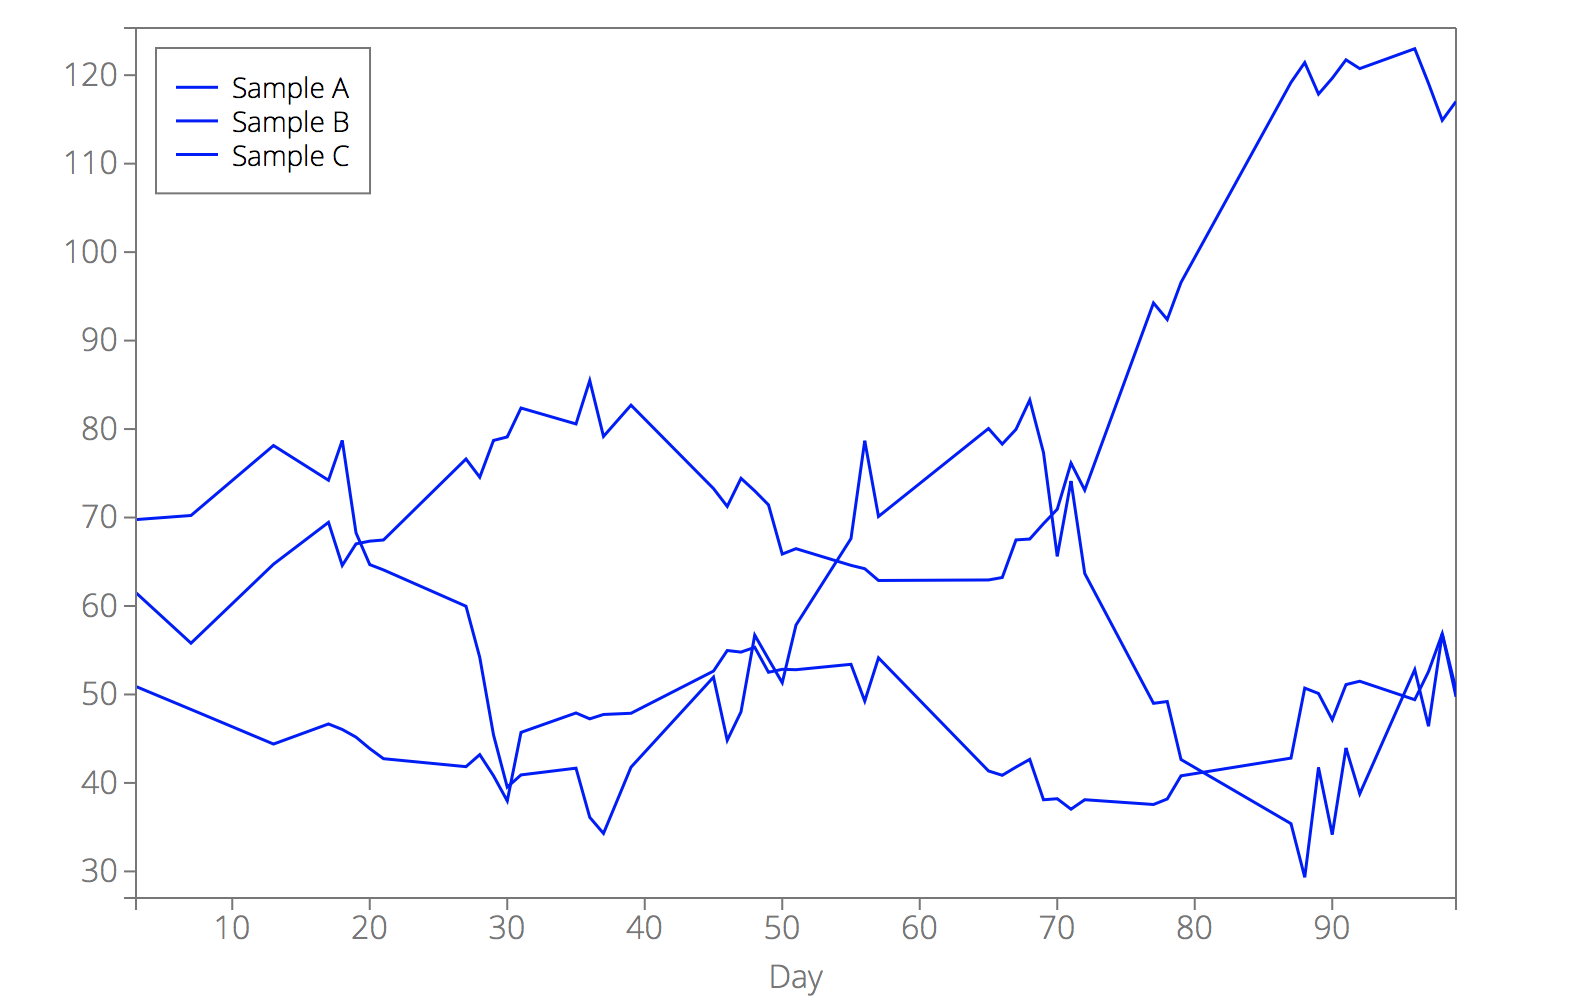
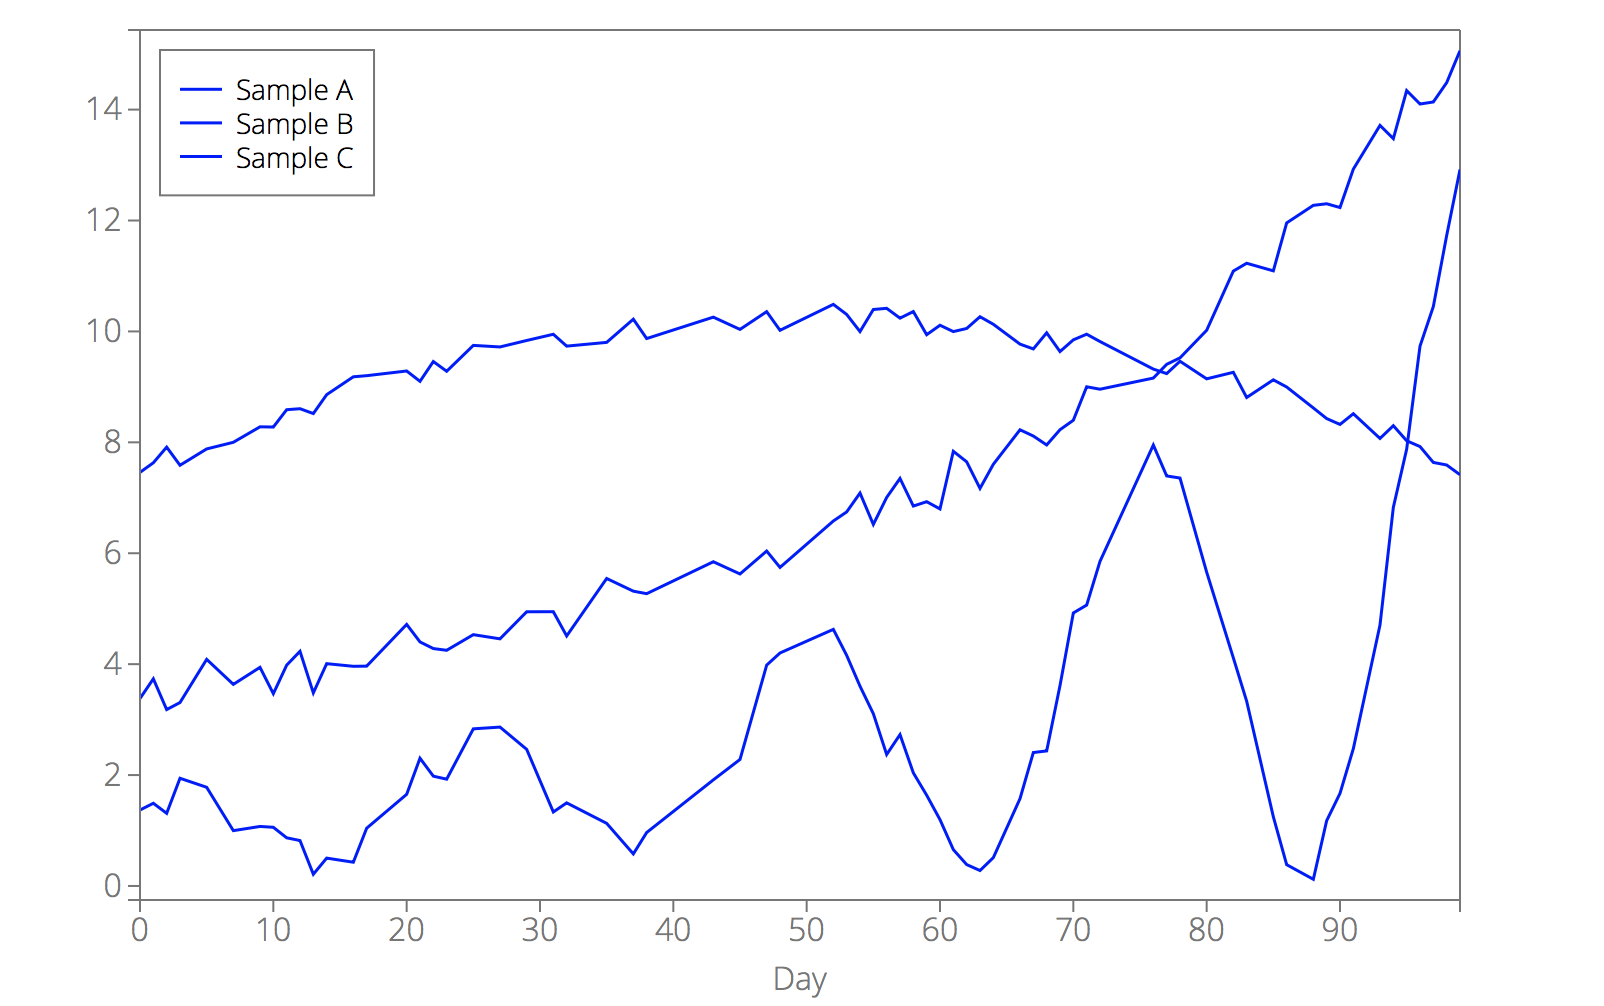
API

diff --git a/tests/test.html b/tests/test.html
@@ -65,8 +65,7 @@ var svg = d3.select("#main-svg");
 d3.csv("example2.csv", function(error, data) {
     var options = {
         data: data,
-        xkey: "Day",
-        line_color: ["steelblue", "#f77", "rgb(250, 120, 240)"],
+        xkey: "Day"
     };
     d3lines.plot(svg, options);
 });

diff --git a/API.md b/API.md
@@ -155,54 +155,76 @@ Suppose that you have the following `example2.csv`:
 
 ```
 Day,Sample A,Sample B,Sample C
-3,69.7665925945,50.8980167548,61.4978011553
-7,70.2307668378,48.3065756125,55.7963998342
-13,78.1404816526,44.3945781512,64.7251611208
-17,74.2128753514,46.6664839444,69.456580873
-18,78.7136091918,46.0431669673,64.5843281325
-19,68.2731934312,45.1773347638,67.0246086318
-20,64.6784765394,43.8829260824,67.3304829687
-21,64.078266354,42.7393393412,67.4614262131
-27,59.9736260654,41.8389801619,76.6184128588
-28,54.1963318973,43.1991975906,74.5551006676
-29,45.4346434254,40.8165035072,78.7135983798
-30,39.5235907855,37.9678408868,79.1089953112
-31,40.9070193725,45.7138889281,82.3784494751
-35,41.6691052989,47.9107825793,80.5789026314
-36,36.1142120885,47.2426926164,85.4838881572
-37,34.2928694345,47.7384269922,79.1678668036
-39,41.7805111834,47.8739136227,82.7028614384
-45,51.9588457713,52.6420505946,73.2735220657
-46,44.8207100247,54.9694009876,71.2531399487
-47,48.0384615897,54.7887335839,74.432922587
-48,56.7066860435,55.3316986158,73.0092348861
-49,53.9976928278,52.5088657451,71.4317964783
-50,51.3274301356,52.8425459045,65.8703562685
-51,57.8483208511,52.7984731613,66.4797810692
-55,67.6225873434,53.4088409972,64.5942464805
-56,78.682754998,49.2548751825,64.2137755437
-57,70.1188207482,54.138512164,62.8840246882
-65,80.0604567566,41.3548750048,62.9439413559
-66,78.3013956113,40.8632430803,63.2198078713
-67,79.9679308774,41.7919659434,67.4707900413
-68,83.2877833742,42.6636048632,67.5678695071
-69,77.33435728,38.097450205,69.3084623065
-70,65.614365036,38.2147610106,70.9377960871
-71,74.123920916,37.0322817873,76.1509830151
-72,63.6736680769,38.1033794331,73.0974722335
-77,48.9972820909,37.5631887494,94.2539018493
-78,49.2046936762,38.184370403,92.3802315884
-79,42.6473164729,40.8041792357,96.5701073646
-87,35.3975775855,42.806132401,119.183267619
-88,29.3350246672,50.720324528,121.427372588
-89,41.7412372846,50.110861592,117.862777462
-90,34.1749979574,47.1374402302,119.657094144
-91,43.9498604905,51.1191193224,121.736495799
-92,38.7696044878,51.4961996245,120.743382758
-96,52.804215494,49.4095674323,122.992119826
-97,46.4073025374,52.5807774045,119.077755809
-98,56.8501170472,56.8733243277,114.900404169
-99,49.736711926,50.5512701401,117.028862561
+0,1.36978893471,3.38066609811,7.45844794384
+1,1.49137655531,3.73562084117,7.63119347755
+2,1.31017647221,3.18068192911,7.91360793457
+3,1.94220556984,3.3077832707,7.58647498067
+5,1.77968604686,4.08654857579,7.88098220595
+7,0.997654022027,3.63538096353,8.00060374422
+9,1.0733420551,3.94260109575,8.27977747233
+10,1.05827381601,3.4675124496,8.27592568438
+11,0.868382926097,3.98204649432,8.5884383334
+12,0.81904420459,4.23153801748,8.60615909873
+13,0.211346950485,3.48159582174,8.51885166262
+14,0.502426110935,4.00882731717,8.85955705304
+16,0.428451632712,3.96117944976,9.18180366264
+17,1.04163792553,3.96417664929,9.20189324965
+20,1.65277501927,4.71706610312,9.28660800814
+21,2.30355686489,4.40055478386,9.10005351925
+22,1.98011642352,4.28127578006,9.45732390058
+23,1.92578819133,4.24988962377,9.2813438626
+25,2.83355771364,4.531977732,9.74802805888
+27,2.86510553,4.45628993545,9.72014913369
+29,2.46391268367,4.94468815819,9.83643787802
+31,1.33390118878,4.94602962698,9.94864620082
+32,1.49865153895,4.5081845264,9.73482618335
+35,1.12928356976,5.54484986623,9.80230835739
+37,0.577915325874,5.3160935591,10.2208536926
+38,0.963887752359,5.27097249312,9.87139312408
+43,1.91308864095,5.84662048942,10.2575789957
+45,2.28138866381,5.62614589185,10.0362131626
+47,3.98233556726,6.03960751819,10.3564396765
+48,4.20154102933,5.74450477186,10.0201650906
+52,4.62734034229,6.58126399348,10.4879707942
+53,4.1583600623,6.74476162006,10.3062670141
+54,3.60289368004,7.08549438007,9.99730862968
+55,3.10613029358,6.51947130176,10.3953371742
+56,2.37063599917,7.00610102317,10.4167041786
+57,2.72980165959,7.34890058783,10.2393033322
+58,2.03934690879,6.85086377411,10.3584094022
+59,1.63679377172,6.9296261582,9.94050716439
+60,1.19564798487,6.79853084373,10.1114271712
+61,0.655471774952,7.83847602017,9.99690581442
+62,0.385796680674,7.64894687909,10.0531244406
+63,0.278324384613,7.16921707316,10.2653275541
+64,0.51113849592,7.604307368,10.1286850174
+66,1.57461405987,8.2262377036,9.77114841935
+67,2.40624734565,8.11356524606,9.68408544648
+68,2.43529684566,7.95256231606,9.97495804536
+69,3.61332159008,8.22750328326,9.63678093146
+70,4.92327747654,8.39838248123,9.84821794504
+71,5.06532411968,9.00167080446,9.94965846792
+72,5.85338666451,8.9578441662,9.81770910251
+76,7.95126311533,9.15882518405,9.320794114
+77,7.39387324551,9.40653560907,9.23932850863
+78,7.3560307929,9.52281438728,9.46205751247
+80,5.65850626333,10.0206385502,9.14498445324
+82,4.11375029892,11.088206372,9.26279650048
+83,3.33141152116,11.2291596108,8.80828285438
+85,1.24794738328,11.0923759382,9.1272399739
+86,0.383933826093,11.9565979759,8.99766245759
+88,0.12056697819,12.2736856997,8.62030045971
+89,1.17790151531,12.3018139038,8.42843589536
+90,1.6695839921,12.2338390187,8.32240562087
+91,2.47604417627,12.9268026429,8.51609928178
+93,4.70595987669,13.7153127875,8.06990380397
+94,6.82692246401,13.4768857118,8.30022925411
+95,7.87689619998,14.3432131529,8.02836320274
+96,9.73399572755,14.1008412337,7.92389526433
+97,10.4488214849,14.1375429697,7.63726835332
+98,11.7286960169,14.4860340892,7.59136934731
+99,12.9190593149,15.0618799918,7.41576150465
+
 ```
 
 In this case, there are four columns and four possible `xkey` values (`"Day"`, `"Sample A"`, `"Sample B"` or `"Sample C"`). For example:
